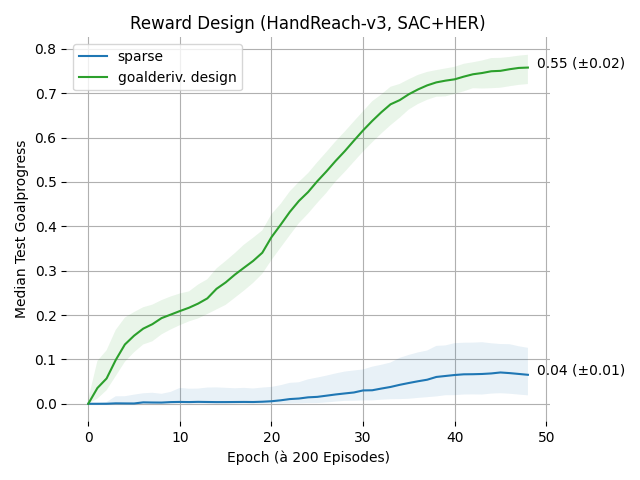
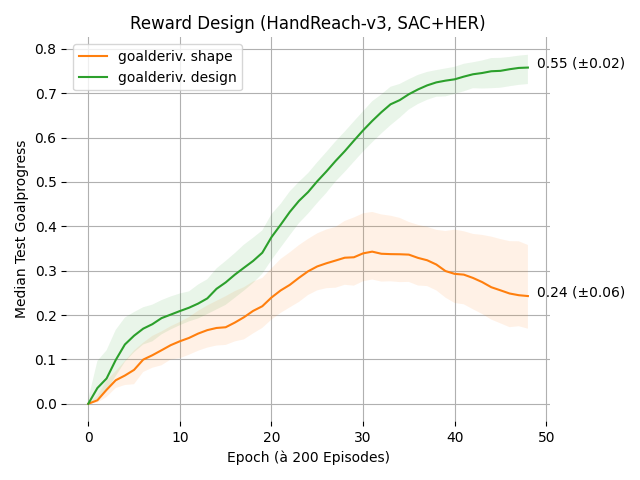
readme, activ. fn.

diff --git a/src/custom_envs/le_humanoid_hand/hand_imitation_env.py b/src/custom_envs/le_humanoid_hand/hand_imitation_env.py
@@ -124,8 +124,8 @@ IS_OBSPACE_PAD_TO_NEXT_BASE_2 = False
 # 0.5M noWorldPosObs (only worldderivs), fullDerivsObs, derivFrontRewarding   restore_policy=/home/t14/Documents/tuhh/dsf/Scilab-RL/data/4f83e3b/le-hand-imitation-v1/15-12-59/rl_model_finished
 # 0.3M noWorldObs whatsoever: pca0.5-reduced goalobs only (goaldiffs/-derivs, goaldist/-derivs)    /home/t14/Documents/tuhh/dsf/Scilab-RL/data/7ab0a84/le-hand-imitation-v1/22-11-37/rl_model_finished
 # 0.5M(!) noWorldObs whatsoever: pca0.5-reduced goalobs only (goaldiffs/-derivs, goaldist/-derivs), allGestures    /home/t14/Documents/tuhh/dsf/Scilab-RL/data/300e824/le-hand-imitation-v1/23-29-18/rl_model_finished
-# 0.5M no pos. rewards, noWorldObs whatsoever: pca0.5-reduced goalobs only (goaldiffs/-derivs, goaldist/-derivs), allGestures   /home/t14/Documents/tuhh/dsf/Scilab-RL/data/244f064/le-hand-imitation-v1/13-05-44/rl_model_finished
-# 0.5M goalMom3, no pos. rewards, noWorldObs whatsoever: pca0.5-reduced goalobs only (goaldiffs/-derivs, goaldist/-derivs), allGestures, validSet   /home/t14/Documents/tuhh/dsf/Scilab-RL/data/244f064/le-hand-imitation-v1/22-59-03/rl_model_finished
+# 0.5M no posit. rewards, noWorldObs whatsoever: pca0.5-reduced goalobs only (goaldiffs/-derivs, goaldist/-derivs), allGestures   /home/t14/Documents/tuhh/dsf/Scilab-RL/data/244f064/le-hand-imitation-v1/13-05-44/rl_model_finished
+# 0.5M goalMom3, no posit. rewards, noWorldObs whatsoever: pca0.5-reduced goalobs only (goaldiffs/-derivs, goaldist/-derivs), allGestures, validSet   /home/t14/Documents/tuhh/dsf/Scilab-RL/data/244f064/le-hand-imitation-v1/22-59-03/rl_model_finished
 class HandImitationEnv(HumanoidEnv):
 
 
@@ -147,6 +147,7 @@ class HandImitationEnv(HumanoidEnv):
         self.tr_is_eval = is_eval
         self.is_plot = is_plot
         self.outfile_tr_multigoal_lastmeans = open('tr_multigoal_lastmeans.dat', 'a')
+        self.outfile_tr_goalprogresses = open('goalprogresses.dat', 'a')
 
         # https://ai.google.dev/edge/mediapipe/solutions/vision/pose_landmarker/python
         self.landmarker_options_achieved = HandLandmarkerOptions(
@@ -432,6 +433,11 @@ class HandImitationEnv(HumanoidEnv):
             #     self.ep_lives -= 1
             #     reward = 0
 
+        if self.tr_is_eval:
+            if self.ep_num_steps >= 1000:
+                truncated = True
+
+
 
         self.ep_goaldist_mean = (((self.ep_num_steps - 1) * self.ep_goaldist_mean) + goaldist) / (self.ep_num_steps)
         self.tr_multigoal_lastmeans[self.fep_goalid] = self.ep_goaldist_mean
@@ -445,11 +451,18 @@ class HandImitationEnv(HumanoidEnv):
             is_success = bool(self.ep_rewards_mean > self.cfg.General.EPISODE_SUCCESS_THRESHOLD_REWARD_MEAN)
             info['success'] = is_success
 
+        # goalprogress
+        if self.ep_goaldists and self.ep_goaldists[0] > 0:
+            self.ep_goalprogress = (self.ep_goaldists[0] - self.ep_goaldists[-1]) / self.ep_goaldists[0]
+            self.ep_goalprogress = max(0, self.ep_goalprogress)
+            info['goalprogress'] = self.ep_goalprogress
+
         if self.is_render:
             self.render_mode = 'human'
             human_viewer = self.mujoco_renderer._get_viewer('human')
             human_viewer.add_overlay(mujoco.mjtGridPos.mjGRID_BOTTOMLEFT, 'reward', str(np.round(reward, 2)))
             human_viewer.add_overlay(mujoco.mjtGridPos.mjGRID_BOTTOMLEFT, 'goaldist', str(np.round(goaldist, 2)))
+            human_viewer.add_overlay(mujoco.mjtGridPos.mjGRID_BOTTOMLEFT, 'goalprogress', str(np.round(self.ep_goalprogress, 2)))
             human_viewer.add_overlay(mujoco.mjtGridPos.mjGRID_BOTTOMLEFT, 'goalseek', str(goaldist > self.ep_reward_threshold))
             human_viewer.add_overlay(mujoco.mjtGridPos.mjGRID_BOTTOMLEFT, 'meandist_r', str(np.round(goaldist / self.ep_goaldist_mean, 2)))
             human_viewer.add_overlay(mujoco.mjtGridPos.mjGRID_BOTTOMLEFT, 'ep_rewards_mean', str(np.round(self.ep_rewards_mean, 2)))
@@ -945,7 +958,10 @@ class HandImitationEnv(HumanoidEnv):
                 performance = np.mean(self.tr_multigoal_lastmeans)
                 if performance < 100:
                     self.outfile_tr_multigoal_lastmeans.write('%s\n' % (performance))
-                    self.outfile_tr_multigoal_lastmeans.flush()
+                    self.outfile_tr_multigoal_lastmeans.flush()                
+                    self.outfile_tr_goalprogresses.write('%s\n' % (self.ep_goalprogress))
+                    self.outfile_tr_goalprogresses.flush()
+
 
         if not self.tr_is_eval and cfg.TrajectoryHalving.IS_ENABLED:
             self.fep_lives -= 1
@@ -1093,6 +1109,7 @@ class HandImitationEnv(HumanoidEnv):
         self.ep_states = []
         self.ep_rewards = []
         self.ep_actions = []
+        self.ep_goalprogress = 0
         self.ep_num_steps_goal_zone = 0
         self.ep_count_fails_pose_detection = 0
        

diff --git a/src/custom_envs/mom_fetchpush/plot.py b/src/custom_envs/mom_fetchpush/plot.py
@@ -321,18 +321,21 @@ all = { # C1
 }
 
 all = { # C2
-    'sparse': GP_sparse_HER_unobs_baseline,
+    # 'sparse': GP_sparse_HER_unobs_baseline,
+    'goalderiv. shape': GP_shaped_HER_unobs,
     'goalderiv. design': GP_redesigned_HER_unobs,
 }
 
 all = { # C3
-    'sparse': GP_sparse_HER_unobs_baseline,
+    # 'sparse': GP_sparse_HER_unobs_baseline,
+    'goalderiv. design': GP_redesigned_HER_unobs,
     'goalderiv. design (augm.)': GP_redesigned_HER_augmented,
 }
 
 all = { # C4
-    'sparse': GP_sparse_HER_unobs_baseline,
+    # 'sparse': GP_sparse_HER_unobs_baseline,
     # 'goalderiv. design (red.)': GP_redesigned_HER_reduced,
+    'goalderiv. design (augm.)': GP_redesigned_HER_augmented,
     'goalderiv. design (red., no HER)': GP_redesigned_reduced,
 }
 

diff --git a/src/main.py b/src/main.py
@@ -53,6 +53,9 @@ def get_env_instance(cfg, logger, submodels):
     elif cfg.render == 'train':
         train_env = gym.make(cfg.env, is_render=True, submodels=submodels, **cfg.env_kwargs)
         eval_env = gym.make(cfg.env, is_eval=True, is_render=False, submodels=submodels, **cfg.env_kwargs)
+    elif cfg.render == 'silent':
+        train_env = gym.make(cfg.env, is_render=False, submodels=submodels, **cfg.env_kwargs)
+        eval_env = gym.make(cfg.env, is_eval=True, is_render=False, submodels=submodels, **cfg.env_kwargs)
     else:
         train_env = gym.make(cfg.env, **cfg.env_kwargs)
         eval_env = gym.make(cfg.env, **cfg.env_kwargs)

diff --git a/README.md b/README.md
@@ -1,6 +1,6 @@
 
 ---
-title: "Reward and Observe Higher-Order Goalderivatives (2025)"
+title: "Reward and Observe Higher-Order Goalderivatives"
 bibliography: bibliography.bib
 csl: bibstyle.csl
 output: pdf_document
@@ -18,7 +18,9 @@ This repository researches into possible improvements to Goal-Oriented Reinforce
 
 The probed improvements include sample-efficiency during training and generality of the resulting policy to unseen goals.
 
-*Keywords: Deep Reinforcement Learning, Robotics*
+Keywords: Deep Reinforcement Learning, Robotics
+
+> <i><p align="right">"Der Weg ist das Ziel."</i></p>
 
 ---
 
@@ -163,11 +165,11 @@ Note: With potential-based shaping, this claim theoretically requires that the g
 > In goal-oriented RL training towards an optimal policy, by reducing the observation space to contain *only* goalkinematic information, the training can be successful, more efficient and more general.
 
 [<img src="res/c4_goalprogress.png" />](res/c4_goalprogress.png) \
-**Fig. 4:** *Median test goalprogress by obs. reduction (magenta line) with IQR (shaded area) and mean AUC (±s.d., label)*
+**Fig. 4:** *Median test goalprogress by obs. reduction (purple line) with IQR (shaded area) and mean AUC (±s.d., label)*
 
 [<img src="res/c4_design_reduced_noHer_10k_train.gif" />](res/c4_design_reduced_noHer_10k_train.gif) | [<img src="res/c4_design_reduced_noHer_500k_eval.gif" />](res/c4_design_reduced_noHer_500k_eval.gif) | 
 |:--:| :--:| 
-| *Real-time screen recording of 9e3 rendered training steps directly after learning of the networks started for the first time (**blank policy**)* | *Real-time screen recording of rendered evaluation steps after 5e5 training steps (**trained policy**)*
+| *Real-time screen recording of 9k rendered training steps directly after learning of the networks started for the first time (**progress from blank policy**)* | *Real-time screen recording of rendered evaluation steps after 500k training steps (**trained policy**)*
 
 [...]
 
@@ -191,16 +193,29 @@ Note: With potential-based shaping, this claim theoretically requires that the g
 
 
 ## Hyperparams
-| Hyperparams | Relevance | Examples | Comment |
-| --- | --- | --- | --- |
-| $\gamma$ (discount) | +++ | 0.5 (shortsight: non-term., direct, fast/dumb), 0.95 (longsight: term., indirect, prudent/careful) | watch actor NN learning loss
-| shaping vs. redesign | ++     |  |
-| goalkin. reward aggregate    | +++    | all(DGS) (term.), any(DGS) (non-term.) |
-| goalderiv. order k    | ++    | oscillation-res. (>2) | 
-| goalkin. obs.    | +++    | deltas, dist/derivs., augm. vs reduce | 
-| goalobs.    | ++   | single-goal vs. multi-goal | 
-| non-lin. activ.    | +   | ReLU (pos.) vs. Tanh (neg., normalized goal) | 
-| reward freq.    | +++   | sparse (indirect) vs. dense (direct, straight) | 
+| Hyperparams | HandReach-v3 (Baseline) | HandReach-v3 (Reduced) | Case Study | Comment
+| --- | --- | --- | --- | --- |
+| $\gamma$ (discount coeff.) | 0.95 | 0.5 | 0.5 | shortsight (non-term., direct, fast/dumb) vs. longsight (term., indirect, prudent/careful)
+| HER | yes | no | no | |
+| Net. Arch. | [256,256,256] | [256,256,256] | [256,256,128] | |
+| activation | ReLU | ReLU | Tanh | pos. vs. neg. (normalized goal and obs) 
+| $\alpha$ (entr. coeff.) | 0.01 | 0.01 | 0.01 | |
+| buffer size | 1e6 | 1e6 | 1e6 | |
+| batch size | 256 | 256 | 256 |  |
+| $\eta$ (learning rate) | 1e-3 | 1e-3 | 5e-4 |  |
+| learning start | 1e3 | 1e3 | 1e3 |  |
+| train. freq. | 1 | 1 | 1 |  |
+| gradient steps | 1 | 1 | 1 |  |
+| epochs | 50 | 50 | 10 |  |
+| episode per epoch | 200 | 200 | variable |  |
+| timesteps per episode | 50 | 50 | continuous | |
+| test rollouts per epoch | 10 | 10 | 10 |  |
+| seed(s) | random | random | random |  |
+| reward aggregation | - | conj. | conj. |  `all(DGS)` (non-term.) vs. `any(DGS)` (term., explorative) |
+| reward freq. | sparse | semi-dense | semi-dense | indirect vs. direct/straight
+| $k$ (goalderiv. order) | - | 3 |  4 | oscillation-resist. (>2) | 
+| observation state space | original | reduced |  reduced | vs. augmented (deltas, dist/derivs.) | 
+
 
 
 ## Anecdotes
